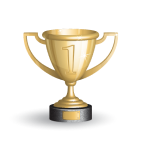
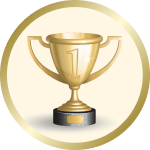
появление всплывашек сверху

diff --git a/fame.html b/fame.html
@@ -362,67 +362,43 @@
 					<div class="best-section__body acc">
 						<div class="best-section__year-list acc-header">
 							<div class="best-section__year" data-tab-head="all">
-								<div class="best-section__year-img">
-									<!-- <svg width="78" height="78" viewBox="0 0 78 78" fill="none" xmlns="http://www.w3.org/2000/svg" xmlns:xlink="http://www.w3.org/1999/xlink">
-										<path d="M78 38.9996C78 60.5397 60.5403 78 39 78C17.4597 78 0 60.5388 0 38.9996C0 17.4603 17.4605 0 39 0C60.5395 0 78 17.4612 78 38.9996Z" fill="url(#paint0_linear_59_4580)"/>
-										<path d="M74.2261 38.9499C74.2261 58.4329 58.4239 74.2258 38.9283 74.2258C19.4327 74.2258 3.63049 58.4322 3.63049 38.9499C3.63049 19.4676 19.4335 3.67474 38.9283 3.67474C58.4231 3.67474 74.2261 19.4684 74.2261 38.9499Z" fill="#FFF7E3"/>
-										<mask id="mask0_59_4580" style="mask-type:alpha" maskUnits="userSpaceOnUse" x="3" y="3" width="72" height="72">
-										<path d="M74.2261 38.9499C74.2261 58.4329 58.4239 74.2258 38.9283 74.2258C19.4327 74.2258 3.63049 58.4322 3.63049 38.9499C3.63049 19.4676 19.4335 3.67474 38.9283 3.67474C58.4231 3.67474 74.2261 19.4684 74.2261 38.9499Z" fill="#FFF7E3"/>
-										</mask>
-										<g mask="url(#mask0_59_4580)">
-										<rect x="2.00012" y="1.99994" width="74" height="74" fill="url(#pattern0)"/>
-										</g>
-										<defs>
-										<pattern id="pattern0" patternContentUnits="objectBoundingBox" width="1" height="1">
-										<use xlink:href="#image0_59_4580" transform="scale(0.00111111)"/>
-										</pattern>
-										<linearGradient id="paint0_linear_59_4580" x1="9.21166" y1="14.2263" x2="68.0799" y2="63.1855" gradientUnits="userSpaceOnUse">
-										<stop class="cup-border-linear" stop-color="#A89142"/>
-										<stop offset="0.514732" stop-color="#FFFAD3"/>
-										<stop class="cup-border-linear" offset="1" stop-color="#A89142"/>
-										</linearGradient>
-										<image id="image0_59_4580" width="900" height="900" xlink:href="./img/awards/cup.png"></image>
-										</defs>
-									</svg> -->
-									<!-- <object data="./img/awards/2.svg" type="image/svg+xml" width="200" height="200"></object> -->
-									<img src="./img/awards/cup.png" alt="">
-								</div>
+								<div class="best-section__year-img"></div>
 								<span class="best-section__year-title">Все</span>
 							</div>
 							<div class="best-section__year _active" data-tab-head="2020">
-								<div class="best-section__year-img"><img src="./img/awards/1.png" alt=""></div>
+								<div class="best-section__year-img"></div>
 								<span class="best-section__year-title">2020</span>
 							</div>
 							<div class="best-section__year" data-tab-head="2019">
-								<div class="best-section__year-img"><img src="./img/awards/1.png" alt=""></div>
+								<div class="best-section__year-img"></div>
 								<span class="best-section__year-title">2019</span>
 							</div>
 							<div class="best-section__year" data-tab-head="2018">
-								<div class="best-section__year-img"><img src="./img/awards/1.png" alt=""></div>
+								<div class="best-section__year-img"></div>
 								<span class="best-section__year-title">2018</span>
 							</div>
 							<div class="best-section__year" data-tab-head="2017">
-								<div class="best-section__year-img"><img src="./img/awards/1.png" alt=""></div>
+								<div class="best-section__year-img"></div>
 								<span class="best-section__year-title">2017</span>
 							</div>
 							<div class="best-section__year" data-tab-head="2016">
-								<div class="best-section__year-img"><img src="./img/awards/1.png" alt=""></div>
+								<div class="best-section__year-img"></div>
 								<span class="best-section__year-title">2016</span>
 							</div>
 							<div class="best-section__year" data-tab-head="2015">
-								<div class="best-section__year-img"><img src="./img/awards/1.png" alt=""></div>
+								<div class="best-section__year-img"></div>
 								<span class="best-section__year-title">2015</span>
 							</div>
 							<div class="best-section__year" data-tab-head="2014">
-								<div class="best-section__year-img"><img src="./img/awards/1.png" alt=""></div>
+								<div class="best-section__year-img"></div>
 								<span class="best-section__year-title">2014</span>
 							</div>
 							<div class="best-section__year" data-tab-head="2013">
-								<div class="best-section__year-img"><img src="./img/awards/1.png" alt=""></div>
+								<div class="best-section__year-img"></div>
 								<span class="best-section__year-title">2013</span>
 							</div>
 							<div class="best-section__year" data-tab-head="2012">
-								<div class="best-section__year-img"><img src="./img/awards/1.png" alt=""></div>
+								<div class="best-section__year-img"></div>
 								<span class="best-section__year-title">2012</span>
 							</div>
 						</div>
@@ -748,7 +724,7 @@
 									</div>
 								</div>
 							</div>
-							<div class="block-border employee-card employee-card_best _show" data-tab-item="2020">
+							<div class="block-border employee-card employee-card_best _show _popup-top" data-tab-item="2020">
 								<div class="employee-card__body">
 									<div class="employee-card__img-block">
 										<div class="employee-card__img"><img src="./img/employee/avatar.png" alt=""></div>
@@ -802,7 +778,7 @@
 									</div>
 								</div>
 							</div>
-							<div class="block-border employee-card employee-card_best _show" data-tab-item="2020">
+							<div class="block-border employee-card employee-card_best _show _popup-top" data-tab-item="2020">
 								<div class="employee-card__body">
 									<div class="employee-card__img-block">
 										<div class="employee-card__img"><img src="./img/employee/avatar.png" alt=""></div>
@@ -856,7 +832,7 @@
 									</div>
 								</div>
 							</div>
-							<div class="block-border employee-card employee-card_best _show" data-tab-item="2020">
+							<div class="block-border employee-card employee-card_best _show _popup-top" data-tab-item="2020">
 								<div class="employee-card__body">
 									<div class="employee-card__img-block">
 										<div class="employee-card__img"><img src="./img/employee/avatar.png" alt=""></div>

diff --git a/sass/sections/_best-section.scss b/sass/sections/_best-section.scss
@@ -23,9 +23,6 @@
 }
 
 .best-section__year-list {
-    // display: grid;
-    // grid-template-columns: repeat(10, 1fr);
-    // column-gap: 21px;
     display: flex;
     align-items: center;
     overflow-x: auto;
@@ -66,42 +63,15 @@
     
     &._active {
 
-        & .best-section__year-img {
-            // border: 10px solid #fff;
-            // border-image: linear-gradient(to right top, blue, skyblue, blue);
-            // border-image-slice: 1; 
-            // border-radius: 50%;
-            // overflow: hidden;
-
-            & .cup-border-linear {
-                stop-color: #E30524;
-            }
-            
-            &::before {
-                // content: "";
-                // position: absolute;
-                // top: 0;
-                // // bottom: 0;
-                // left: 0;
-                // // right: 0;
-                // width: 100%;
-                // height: 100%;
-                // background: linear-gradient(35deg, red, green);
-                // border-radius: 50%;
-                // z-index: -1;
-                // border: 10px solid #fff;
-                // border-image: linear-gradient(to right top, blue, skyblue, blue);
-                // border-image-slice: 1; 
-                // border-radius: 50%;
-                // overflow: hidden;
-
-                // background: linear-gradient(135deg, #E30524 24.23%, #FFBAC4 49.09%, #E30524 74.62%);
-            }
-        }
-
         & .best-section__year-title {
             color: $accent;
             font-weight: 600;
+        }
+
+        & .best-section__year-img {
+            background: url(../img/awards/cup-active.png) no-repeat;
+            background-size: cover;
+            background-position: center center;
         }
     }
 }
@@ -109,25 +79,11 @@
 .best-section__year-img {
     position: relative;
     width: 100%;
-    height: 100%;
-    // width: 70px;
-    // height: 70px;
-    background: #FFF7E3;
+    height: 78px;
+    background: url(../img/awards/cup.png) no-repeat;
+    background-size: cover;
+    background-position: center center;
     border-radius: 50%; 
-
-    // &::before {
-    //     content: '';
-    //     position: absolute;
-    //     z-index: -1;
-    //     top: 50%;
-    //     left: 50%;
-    //     width: 74px;
-    //     height: 74px;
-    //     transform: translate(-50%, -50%) scale(1.1);
-    //     background: linear-gradient(129.75deg, #A89142 14.73%, #FFFAD3 50.61%, #A89142 84.43%);
-    //     border-radius: 50%;
-    //     transition: $tr;
-    // }
 }
  
 .best-section__year-title {

diff --git a/css/style.css b/css/style.css
@@ -3186,6 +3186,44 @@ body:not(.lg-from-hash) .lg-outer.lg-start-zoom .lg-item.lg-complete .lg-object 
   width: 260px;
 }
 
+.employee-card_best._popup-top .employee-card__popup-btn:hover + .employee-card__popup-block {
+  top: -16px;
+  bottom: auto !important;
+}
+
+.employee-card_best._popup-top .employee-card__popup-block {
+  -webkit-transform: translate(0, -100%);
+      -ms-transform: translate(0, -100%);
+          transform: translate(0, -100%);
+  top: -20px;
+  bottom: auto !important;
+  -webkit-transition: var(--tr);
+  -o-transition: var(--tr);
+  transition: var(--tr);
+}
+
+.employee-card_best._popup-top .employee-card__popup-block:hover {
+  top: -16px;
+  bottom: auto !important;
+}
+
+.employee-card_best._popup-top .employee-card__popup-block::before {
+  top: auto;
+  bottom: -5px;
+  -webkit-transform: rotate(135deg);
+      -ms-transform: rotate(135deg);
+          transform: rotate(135deg);
+}
+
+.employee-card_best._popup-top .employee-card__popup-block::after {
+  top: auto;
+  bottom: 0;
+  height: 25px;
+  -webkit-transform: translate(0, 100%);
+      -ms-transform: translate(0, 100%);
+          transform: translate(0, 100%);
+}
+
 .employee-card__body {
   display: -webkit-box;
   display: -webkit-flex;
@@ -4171,20 +4209,26 @@ body:not(.lg-from-hash) .lg-outer.lg-start-zoom .lg-item.lg-complete .lg-object 
   color: var(--accent);
 }
 
-.best-section__year._active .best-section__year-img .cup-border-linear {
-  stop-color: #E30524;
-}
-
 .best-section__year._active .best-section__year-title {
   color: var(--accent);
   font-weight: 600;
 }
 
+.best-section__year._active .best-section__year-img {
+  background: url(../img/awards/cup-active.png) no-repeat;
+  -webkit-background-size: cover;
+          background-size: cover;
+  background-position: center center;
+}
+
 .best-section__year-img {
   position: relative;
   width: 100%;
-  height: 100%;
-  background: #FFF7E3;
+  height: 78px;
+  background: url(../img/awards/cup.png) no-repeat;
+  -webkit-background-size: cover;
+          background-size: cover;
+  background-position: center center;
   -webkit-border-radius: 50%;
           border-radius: 50%;
 }

diff --git a/sass/components/_employee-card.scss b/sass/components/_employee-card.scss
@@ -20,46 +20,48 @@
     }
 
     // Появление всплывашки сверху у последних 3 карточек
-    // &._show:nth-last-of-type(-n+3) {
-    // // &._show:nth-child(-n+3) {
+    // &._show {
     //     background: #000;
-
-    //     & .employee-card__popup-btn {
-    
-    //         &:hover {
-            
-    //             & + .employee-card__popup-block {
-    //                 top: -16px;
-    //                 bottom: auto !important;
-    //             }
-    //         }
-    //     }
-
-    //     & .employee-card__popup-block {
-    //         transform: translate(0, -100%);
-    //         top: -20px;
-    //         bottom: auto !important;
-    //         transition: $tr;
-
-    //         &:hover {
-    //             top: -16px;
-    //             bottom: auto !important;
-    //         }
-
-    //         &::before {
-    //             top: auto;
-    //             bottom: -5px;
-    //             transform: rotate(135deg);
-    //         }
-
-    //         &::after {
-    //             top: auto;
-    //             bottom: 0;
-    //             height: 25px;
-    //             transform: translate(0, 100%);
-    //         }
-    //     }
     // }
+
+    &._popup-top {
+
+        & .employee-card__popup-btn {
+    
+            &:hover {
+            
+                & + .employee-card__popup-block {
+                    top: -16px;
+                    bottom: auto !important;
+                }
+            }
+        }
+
+        & .employee-card__popup-block {
+            transform: translate(0, -100%);
+            top: -20px;
+            bottom: auto !important;
+            transition: $tr;
+
+            &:hover {
+                top: -16px;
+                bottom: auto !important;
+            }
+
+            &::before {
+                top: auto;
+                bottom: -5px;
+                transform: rotate(135deg);
+            }
+
+            &::after {
+                top: auto;
+                bottom: 0;
+                height: 25px;
+                transform: translate(0, 100%);
+            }
+        }
+    }
 }
 
 .employee-card__body {

diff --git a/js/main.js b/js/main.js
@@ -176,6 +176,14 @@ function tabsComponents() {
                 const tabItem = tabItemElems[i];
                     
                 tabItem.classList.add('_show')
+
+                if (tabItem.classList.contains('employee-card_best')) {
+                    const numCards = tabItemElems.length - 3
+
+                    if (i >= numCards) {
+                        tabItem.classList.add('_popup-top')
+                    }
+                }
             }
         })
     }
